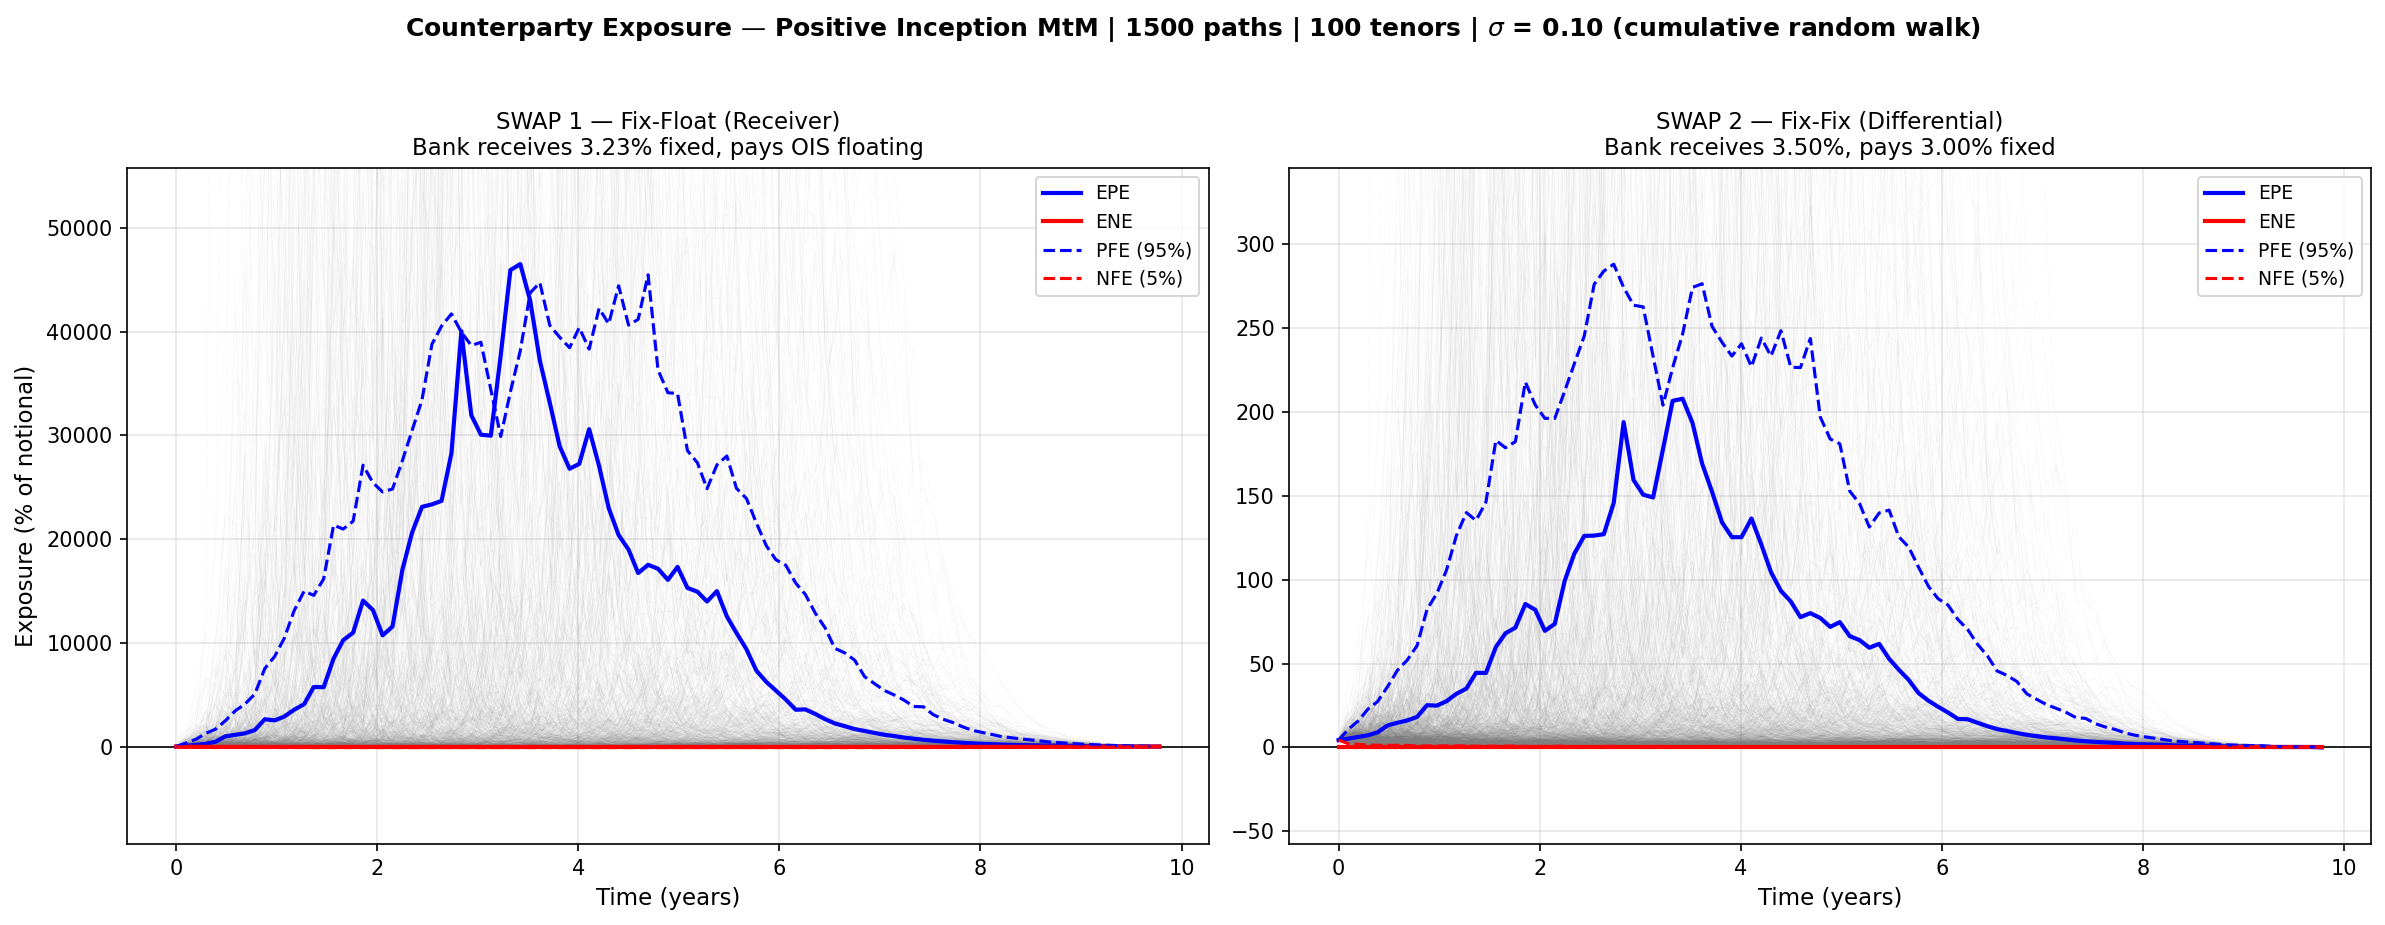
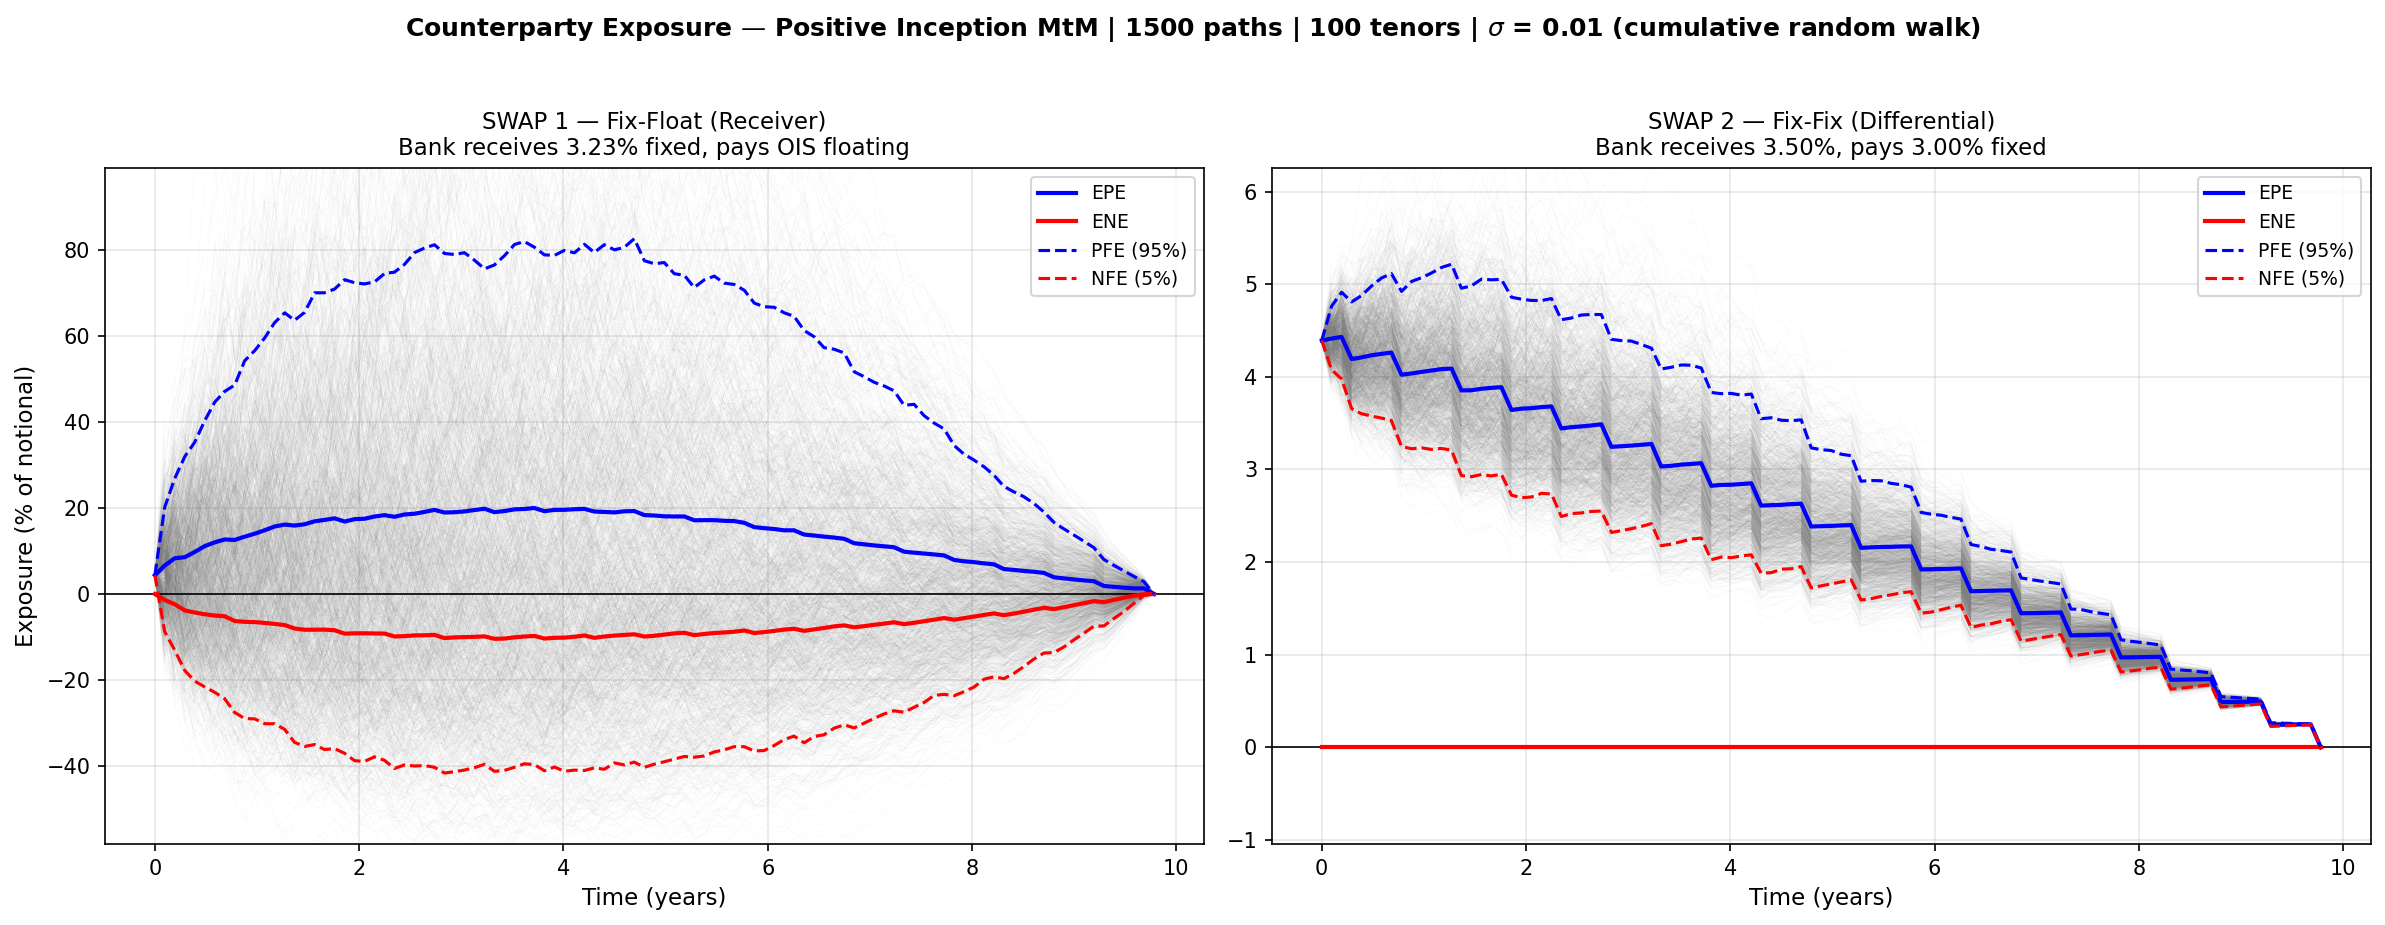
Change sigma from 0.1 to 0.01 (1%)

diff --git a/Exposure_ASW.py b/Exposure_ASW.py
@@ -56,7 +56,7 @@ OIS_ZEROS  = [0.01931, 0.023711, 0.02448, 0.02475, 0.025132,
 
 N_PATHS   = 1500
 N_TENORS  = 100
-SIGMA     = 0.10     # 10 pp absolute normal vol per step
+SIGMA     = 0.010     # percentage absolute normal vol per step
 np.random.seed(42)
 
 # Swap 1 parameters
